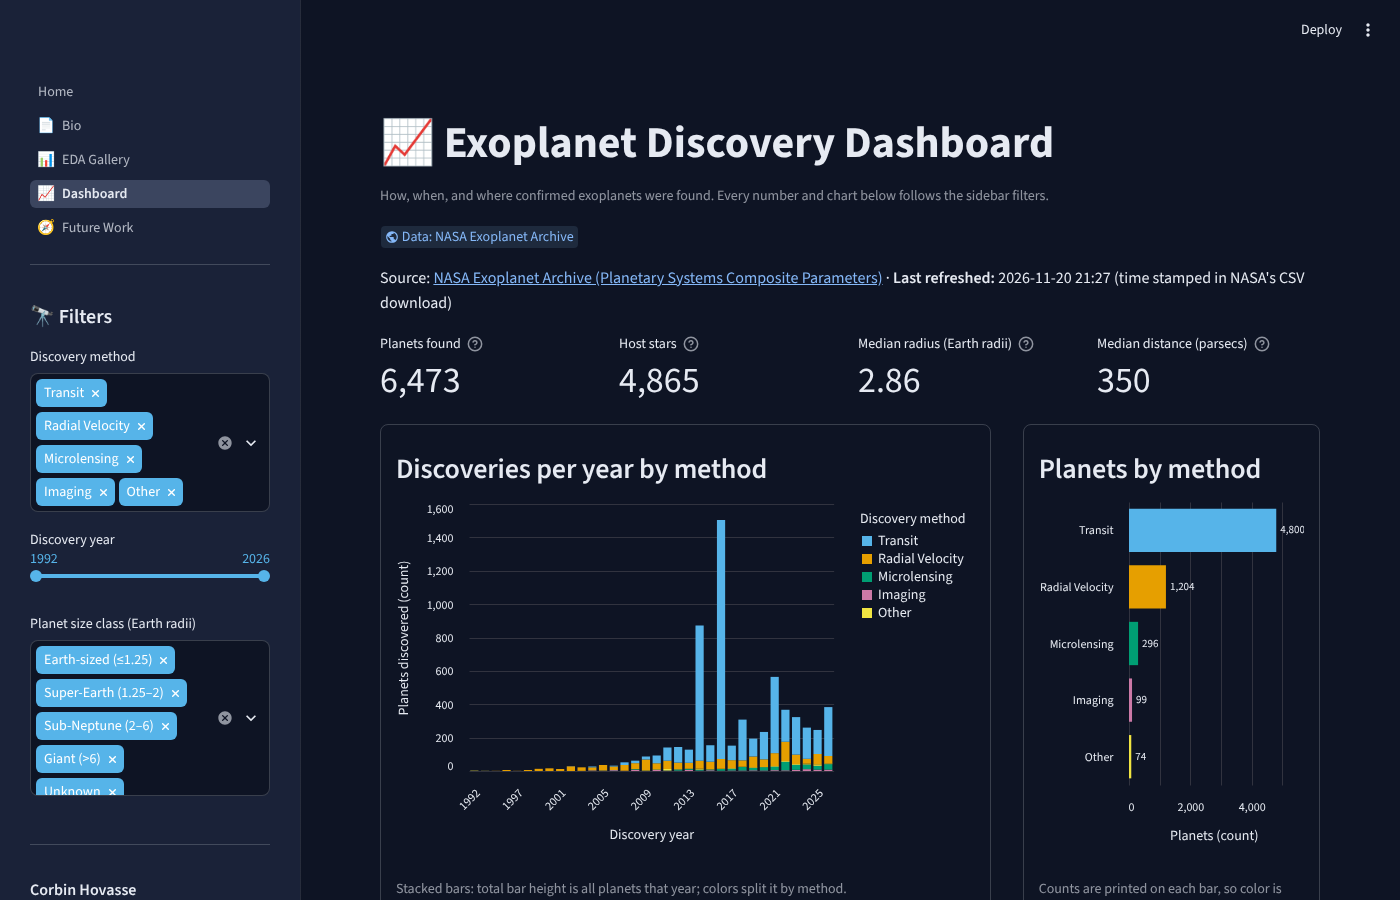
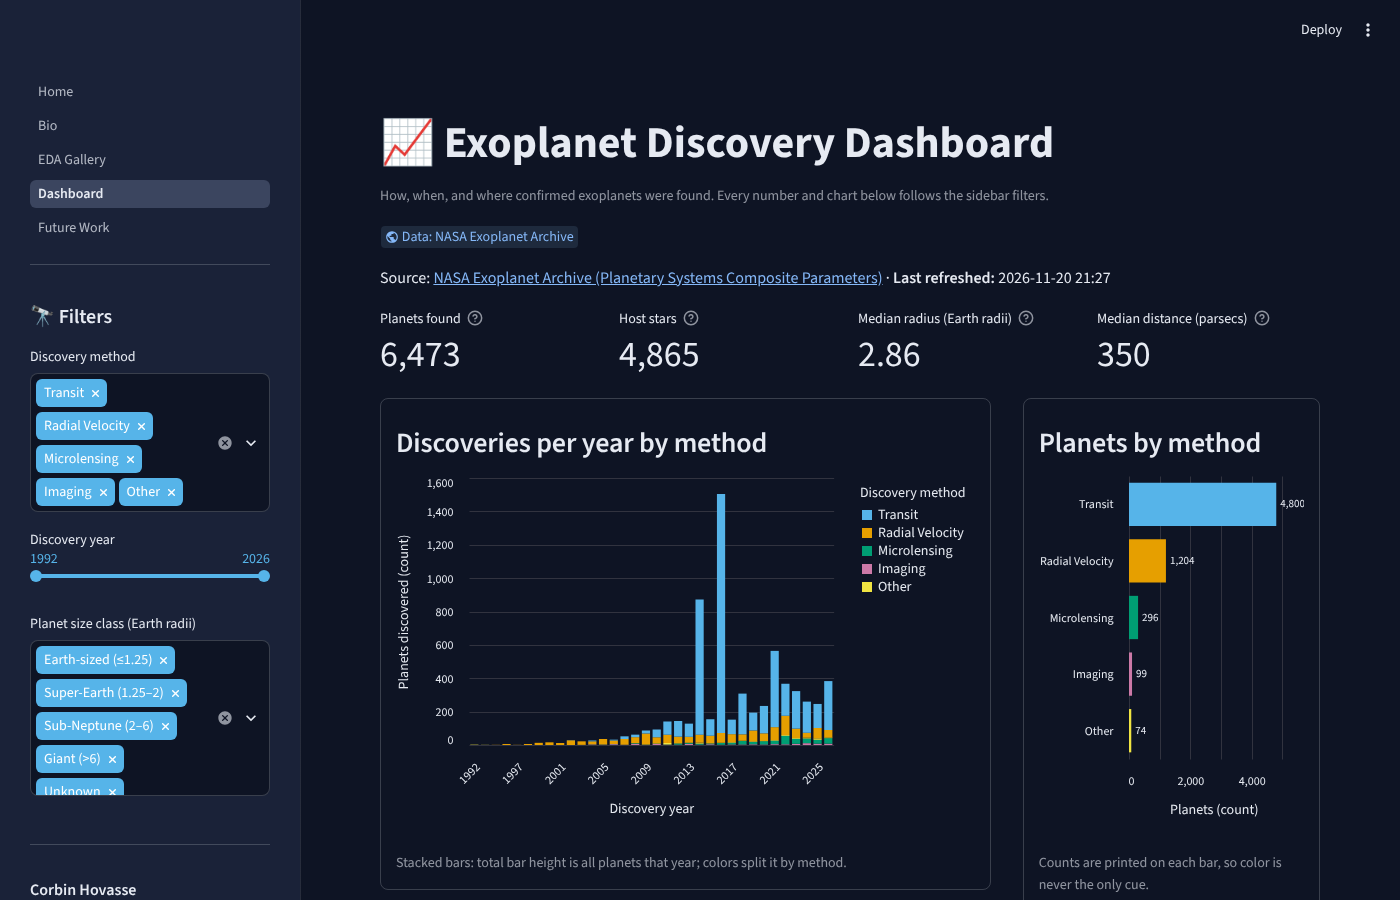
Fix page filenames and removed emojis

diff --git a/Home.py b/Home.py
@@ -42,22 +42,22 @@ with a:
     with st.container(border=True):
         st.markdown("**📄 Bio**")
         st.caption("Who I am, my tools, and my visualization philosophy.")
-        st.page_link("pages/1_📄_Bio.py", label="Open Bio")
+        st.page_link("pages/1_Bio.py", label="Open Bio")
 with b:
     with st.container(border=True):
         st.markdown("**📊 EDA Gallery**")
         st.caption("Four chart types, each with a guide and observations.")
-        st.page_link("pages/2_📊_EDA_Gallery.py", label="Open Gallery")
+        st.page_link("pages/2_EDA_Gallery.py", label="Open Gallery")
 with c:
     with st.container(border=True):
         st.markdown("**📈 Dashboard**")
         st.caption("Filter the catalog and watch the KPIs and charts update.")
-        st.page_link("pages/3_📈_Dashboard.py", label="Open Dashboard")
+        st.page_link("pages/3_Dashboard.py", label="Open Dashboard")
 with d:
     with st.container(border=True):
         st.markdown("**🧭 Future Work**")
         st.caption("Next steps and what changed from my prototype.")
-        st.page_link("pages/4_🧭_Future_Work.py", label="Open Future Work")
+        st.page_link("pages/4_Future_Work.py", label="Open Future Work")
 
 st.write("")
 source_caption()

diff --git a/README.md b/README.md
@@ -2,7 +2,7 @@
 
 A multipage Streamlit app that is both my professional portfolio and a mini analytics product. It explores NASA's catalog of 6,473 confirmed exoplanets to show how, when, and by which methods planets were found, and how the way we search shapes what we find.
 
-**Live app:** _[Exoplanet App](https://exoplanet-ch.streamlit.app/)_
+**Live app:** _add your Streamlit Cloud URL here_
 
 ## Author
 
@@ -55,10 +55,10 @@ streamlit_app/
 ├─ Home.py                  # Home page
 ├─ utils.py                 # Shared data loading (cached), color palette, branding
 ├─ pages/
-│  ├─ 1_📄_Bio.py
-│  ├─ 2_📊_EDA_Gallery.py
-│  ├─ 3_📈_Dashboard.py
-│  └─ 4_🧭_Future_Work.py
+│  ├─ 1_Bio.py
+│  ├─ 2_EDA_Gallery.py
+│  ├─ 3_Dashboard.py
+│  └─ 4_Future_Work.py
 ├─ data/exoplanets.csv
 ├─ assets/banner.png        # Bio image: a one-time matplotlib plot of the dataset (period vs. radius)
 ├─ .streamlit/config.toml   # Dark theme
